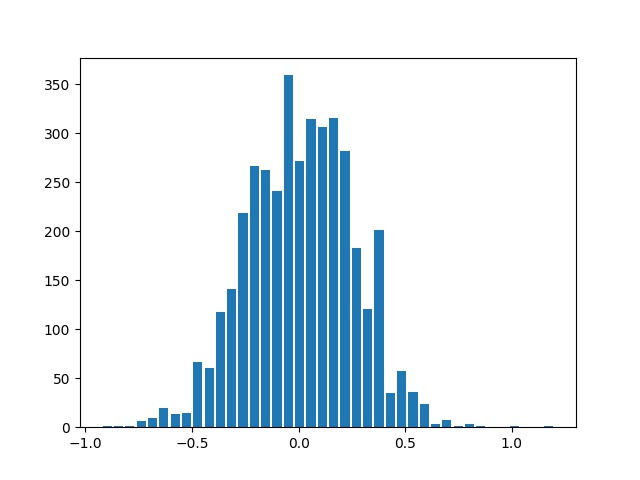
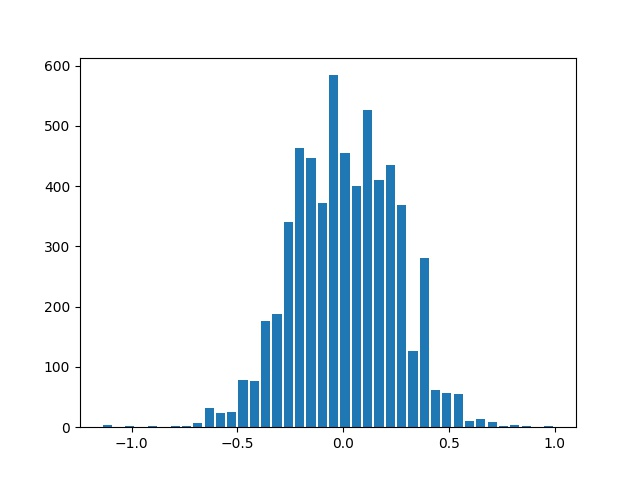
Added share image augmentation

diff --git a/model.py b/model.py
@@ -4,11 +4,13 @@ import numpy as np
 import sklearn
 from sklearn.cross_validation import train_test_split
 from sklearn.utils import shuffle
-
+import matplotlib.pyplot as plt
 
 def load_data():
-    AWS = True
+    AWS = False
     del_rate = 0.87
+    del_angle = 0.03
+    share_rate = 0.5
     samples = []
     with open('../data/driving_log.csv') as csvfile:
       reader = csv.reader(csvfile)
@@ -20,10 +22,11 @@ def load_data():
 
     image_paths = []
     measurements = []
+    share_flags = []
 
     for sample in samples:
         angle = abs(float(sample[3]))
-        if angle < 0.03:
+        if angle < del_angle:
             if np.random.random() < del_rate:
                 continue
         camera = np.random.choice(['center', 'left', 'right'])
@@ -42,7 +45,14 @@ def load_data():
         image_paths.append(current_path)
         measurement = float(sample[3]) + correction
         measurements.append(measurement)
-    data = np.column_stack((image_paths, measurements))
+        share_flags.append(False)
+
+        if np.random.random() < share_rate:
+            image_paths.append(current_path)
+            measurements.append(measurement)
+            share_flags.append(True)
+
+    data = np.column_stack((image_paths, measurements, share_flags))
     data = shuffle(data)
 
     if AWS is False:
@@ -50,7 +60,6 @@ def load_data():
     return data
 
 def plot_data(data):
-    import matplotlib.pyplot as plt
     plt.hist(data, bins = 40, rwidth=0.8)
     fig = plt.gcf()
     plt.show()
@@ -58,6 +67,7 @@ def plot_data(data):
 
 def generator(samples, batch_size=8):
     num_samples = len(samples)
+    shift = 40
     while True:
         shuffle(samples)
         for offset in range(0, num_samples, batch_size):
@@ -71,6 +81,16 @@ def generator(samples, batch_size=8):
                 width = int(img.shape[1]/2)
                 img = cv2.resize(img,(width, height))
                 measurement = float(batch_sample[1])
+
+                if batch_sample[2]:
+                    pts1 = np.float32([[width,0],[0,0],[width/4,height]])
+                    pts2 = np.float32([[width,0],[0,0],[width/4+shift,height]])
+                    M = cv2.getAffineTransform(pts1,pts2)
+                    img = cv2.warpAffine(img, M, (width,height),borderMode=cv2.BORDER_REPLICATE)
+                    # plt.imshow(img)
+                    # plt.show()
+                    # return
+
                 if np.random.random() < 0.5:
                     img = np.fliplr(img)
                     measurement = measurement*(-1.0)
@@ -79,6 +99,7 @@ def generator(samples, batch_size=8):
 
             X_train = np.array(images)
             y_train = np.array(measurements)
+#            return X_train, y_train
             yield sklearn.utils.shuffle(X_train, y_train)
 
 def model():
@@ -125,5 +146,6 @@ def model():
                 nb_val_samples=len(validation_samples), verbose=1, nb_epoch=5)
     model.save('./model.h5')
 
-#samples = load_data()
-model()
+samples = load_data()
+#generator(samples)
+#model()
